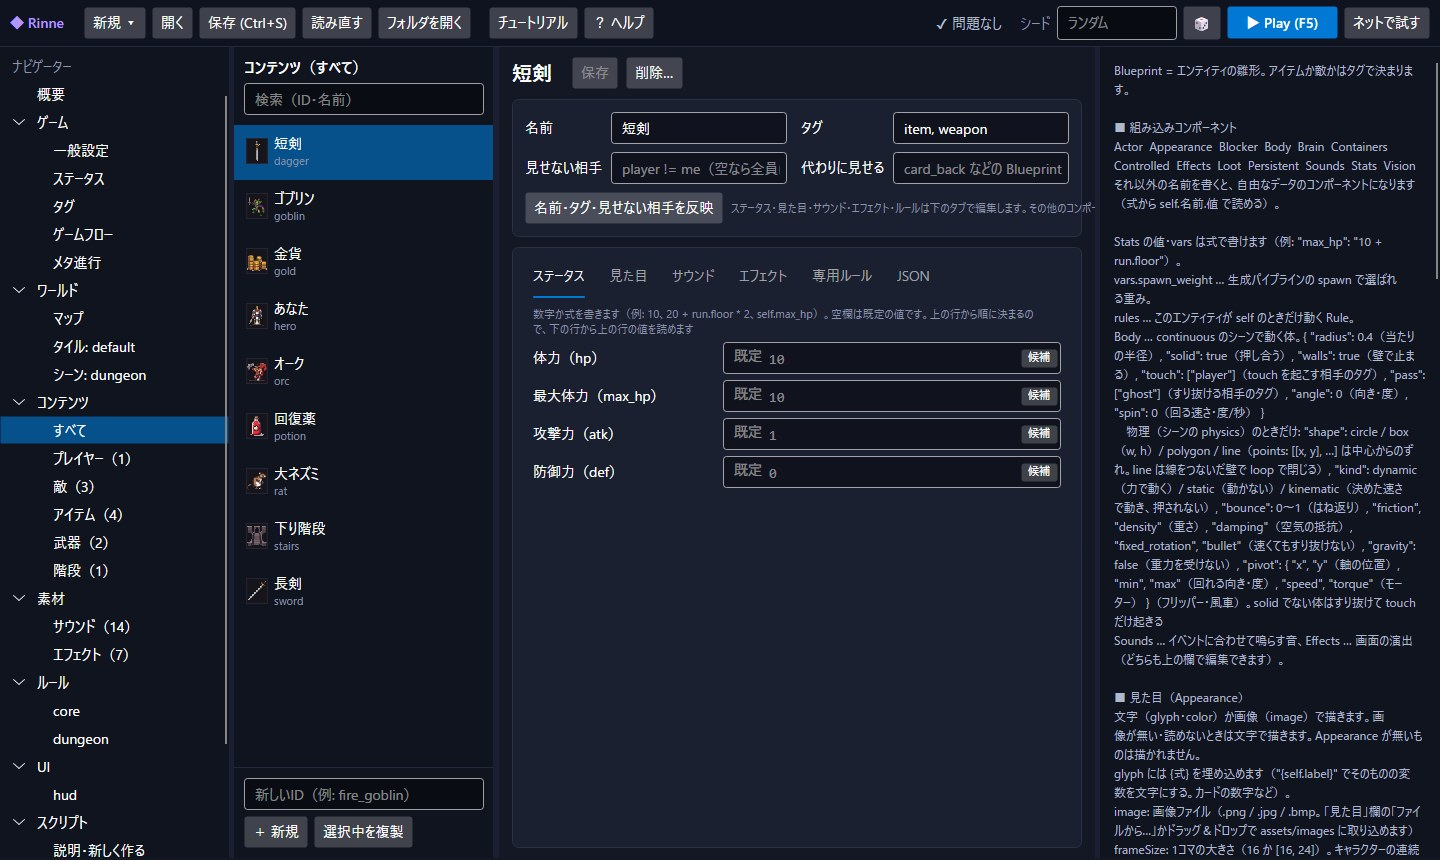
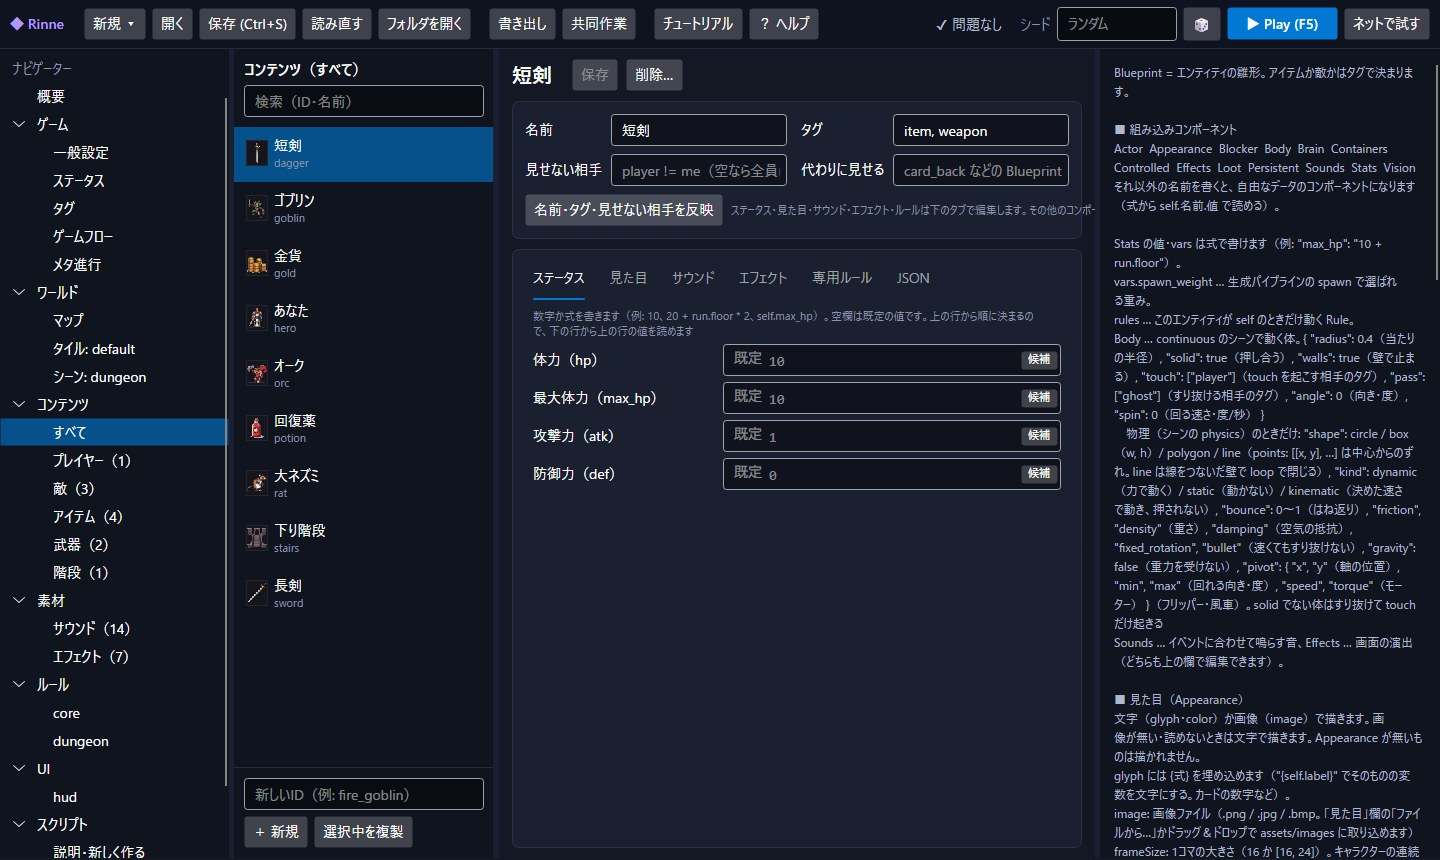
Rinne v0.1.1: ダウンロードを新しい版に・エディター画面を新しいメニューで撮り直し

diff --git a/rinne/index.html b/rinne/index.html
@@ -162,8 +162,8 @@ footer a{color:var(--tx3)}
     <div class="dl-card">
       <div class="dl-ico">🪟</div>
       <div class="dl-nm">Windows</div>
-      <div class="dl-status">v0.1.0（ベータ）・zip・約157MB</div>
-      <a href="https://github.com/stardustdreams/stardustdreams.github.io/releases/download/v0.1.0-rinne/Rinne-0.1.0-Windows.zip" class="btn btn-p">⬇ ダウンロード（zip）</a>
+      <div class="dl-status">v0.1.1（ベータ）・zip・約157MB</div>
+      <a href="https://github.com/stardustdreams/stardustdreams.github.io/releases/download/v0.1.1-rinne/Rinne-0.1.1-Windows.zip" class="btn btn-p">⬇ ダウンロード（zip）</a>
       <div class="dl-small">Windows 10 / 11（64ビット）<br>Mac 版・Linux 版は準備中です</div>
     </div>
     <div class="notes">
